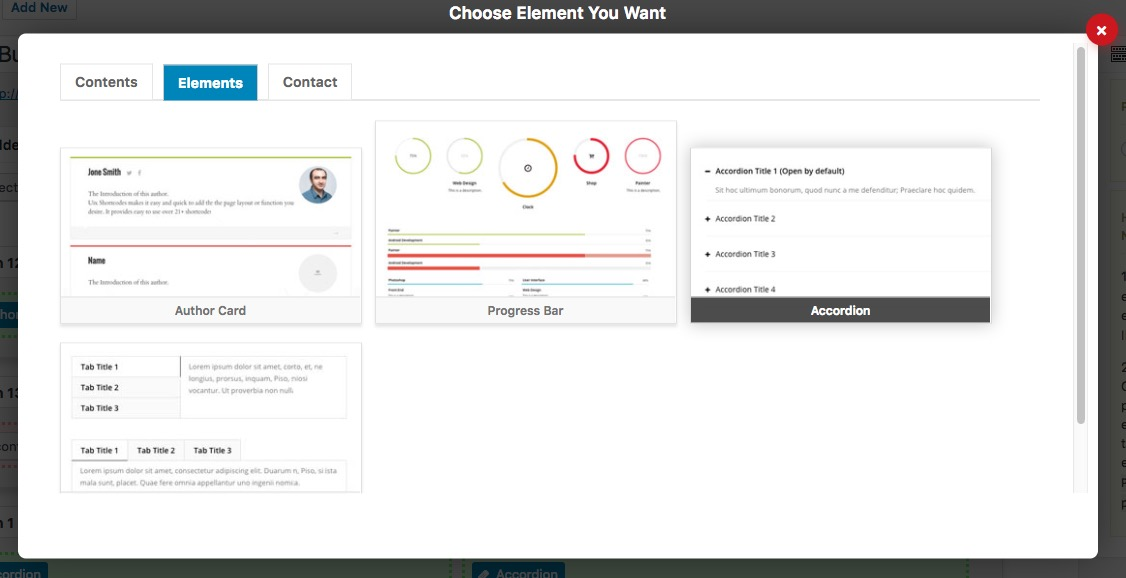
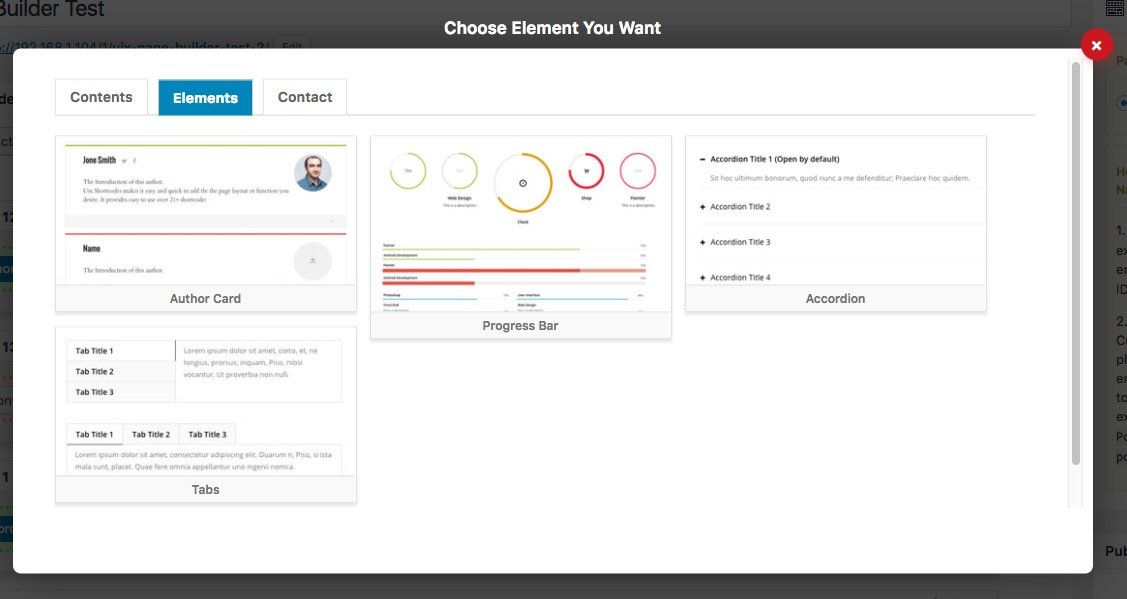
Update

Changed region(s): [[0.0, 0.0, 1.0, 1.0], [0.0622, 0.5606, 0.3108, 0.8408]]

diff --git a/admin/css/style.css b/admin/css/style.css
@@ -2,11 +2,11 @@
 -------------------------------------------------------------- */
 .uix-pagebuilder-col {
     width: 300px;
-	display: inline-block;
+	float: left;
 	margin-right: 15px;
 	margin-bottom: 15px;
 	position: relative;
-
+	vertical-align: top;
 }
 
 @media screen and (min-width: 769px) and (max-width: 1199px) {
@@ -31,7 +31,6 @@
 	-o-transition: .1s ease-in-out;
 	-webkit-transition: .1s ease-in-out; 
 	transition: .1s ease-in-out;
-	vertical-align: top;
 	-webkit-box-shadow: 0px 3px 3px 0px rgba(230,230,230,1);
 	-moz-box-shadow: 0px 3px 3px 0px rgba(230,230,230,1);
 	box-shadow: 0px 3px 3px 0px rgba(230,230,230,1);

diff --git a/admin/js/core.js b/admin/js/core.js
@@ -74,6 +74,7 @@
 			
 		});
 			
+			
 		 /*! 
 		 * 
 		 * Hide layout button
@@ -109,6 +110,10 @@
 			
 						
 		});
+		
+		
+		
+		
 		
 	   /*! 
 		 * 

diff --git a/uix-pagebuilder.php b/uix-pagebuilder.php
@@ -143,6 +143,9 @@ class UixPageBuilder {
 						//Jquery UI
 						wp_enqueue_script( 'jquery-ui' );
 
+						//Masonry
+						wp_enqueue_script( 'masonry' );
+
 				}
 		  }
 		
@@ -532,11 +535,10 @@ class UixPageBuilder {
 		$btns .= '</div>';
 				
 		
-		echo 'if ( jQuery( \'#widget-items-elements-'.$col.'-\'+uid+\'\' ).length < 1 ) {jQuery( \'body\' ).prepend( \'<div class="uixpbform-modal-box" id="widget-items-elements-'.$col.'-\'+uid+\'"><a href="javascript:void(0)" class="close-btn close-uixpbform-modal">×</a><div class="content"><h2>'.__( 'Choose Element You Want', 'uix-pagebuilder' ).'</h2><div class="widget-items-container">'.$btns.'</div></div></div>\' ); if ( jQuery( document.body ).width() > 768 ) { jQuery( ".uix-pagebuilder-col-tabs" ).accTabs(); } }';
+		echo 'if ( jQuery( \'#widget-items-elements-'.$col.'-\'+uid+\'\' ).length < 1 ) {jQuery( \'body\' ).prepend( \'<div class="uixpbform-modal-box" id="widget-items-elements-'.$col.'-\'+uid+\'"><a href="javascript:void(0)" class="close-btn close-uixpbform-modal">×</a><div class="content"><h2>'.__( 'Choose Element You Want', 'uix-pagebuilder' ).'</h2><div class="widget-items-container">'.$btns.'</div></div></div>\' ); var $grid = jQuery( ".js-tabs_panel" ).imagesLoaded( function() { $grid.masonry({itemSelector: ".uix-pagebuilder-col"}); }); if ( jQuery( document.body ).width() > 768 ) { jQuery( ".uix-pagebuilder-col-tabs" ).accTabs(); } }';
 			
-	
 		
-				
+		
 	}
 	
 		
